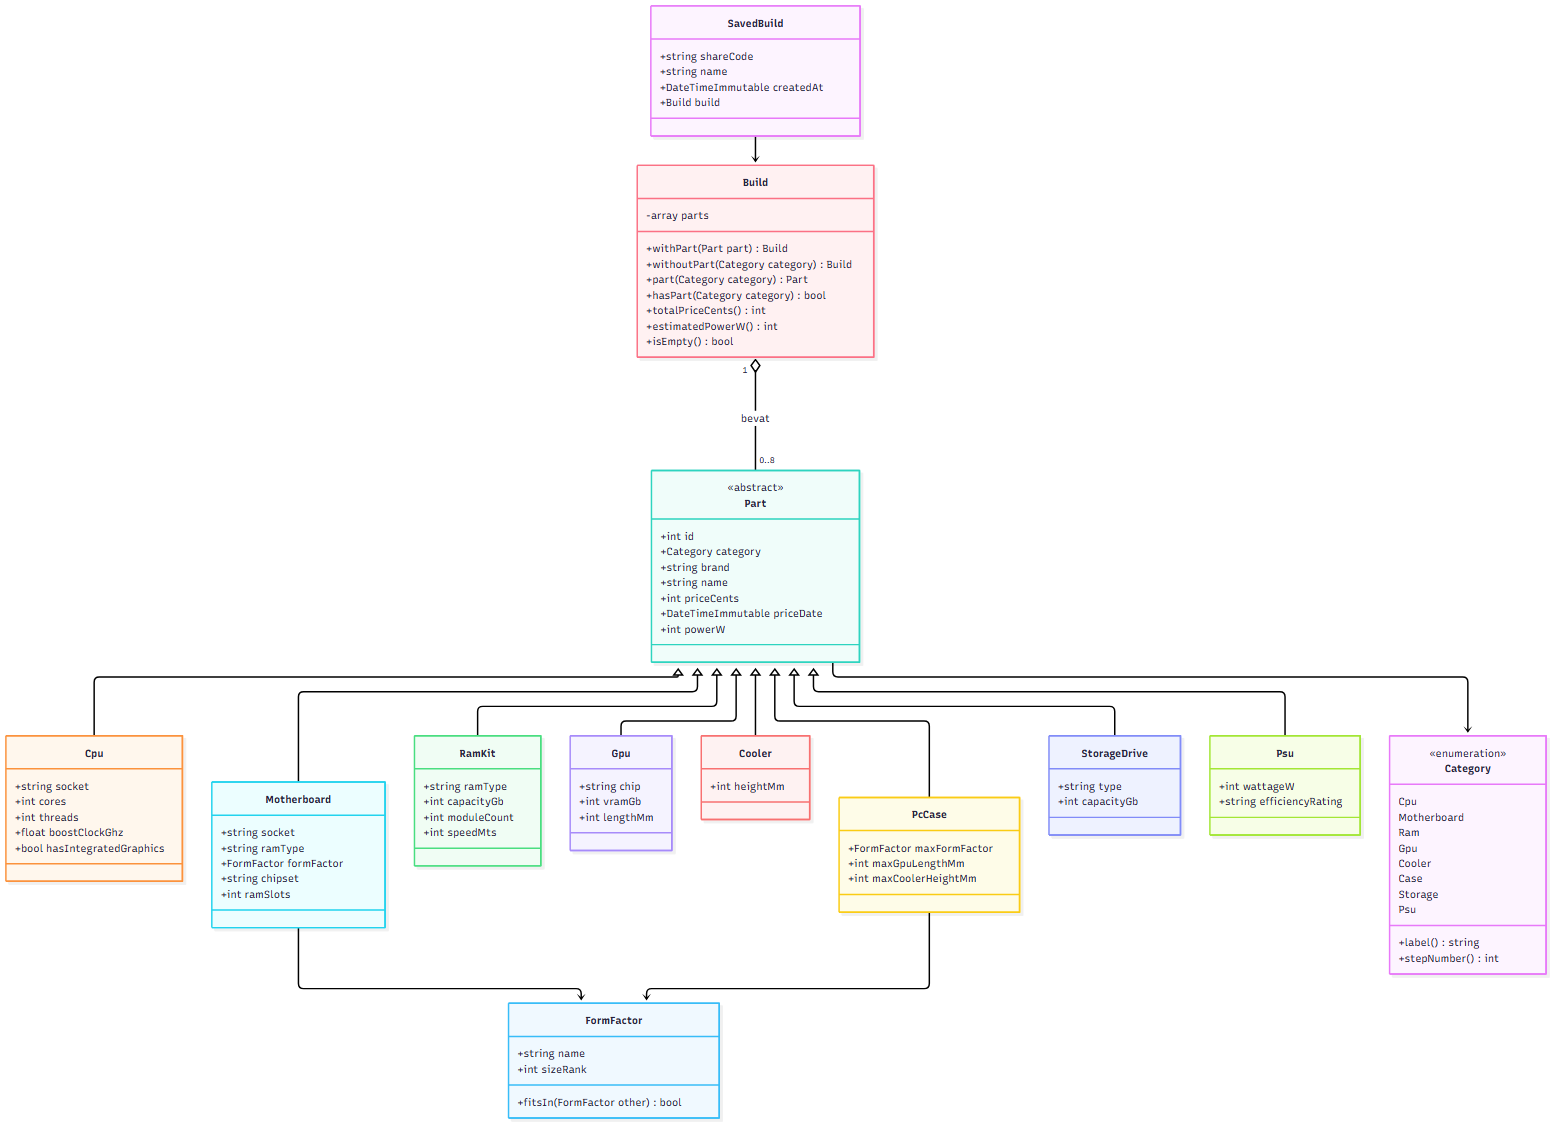
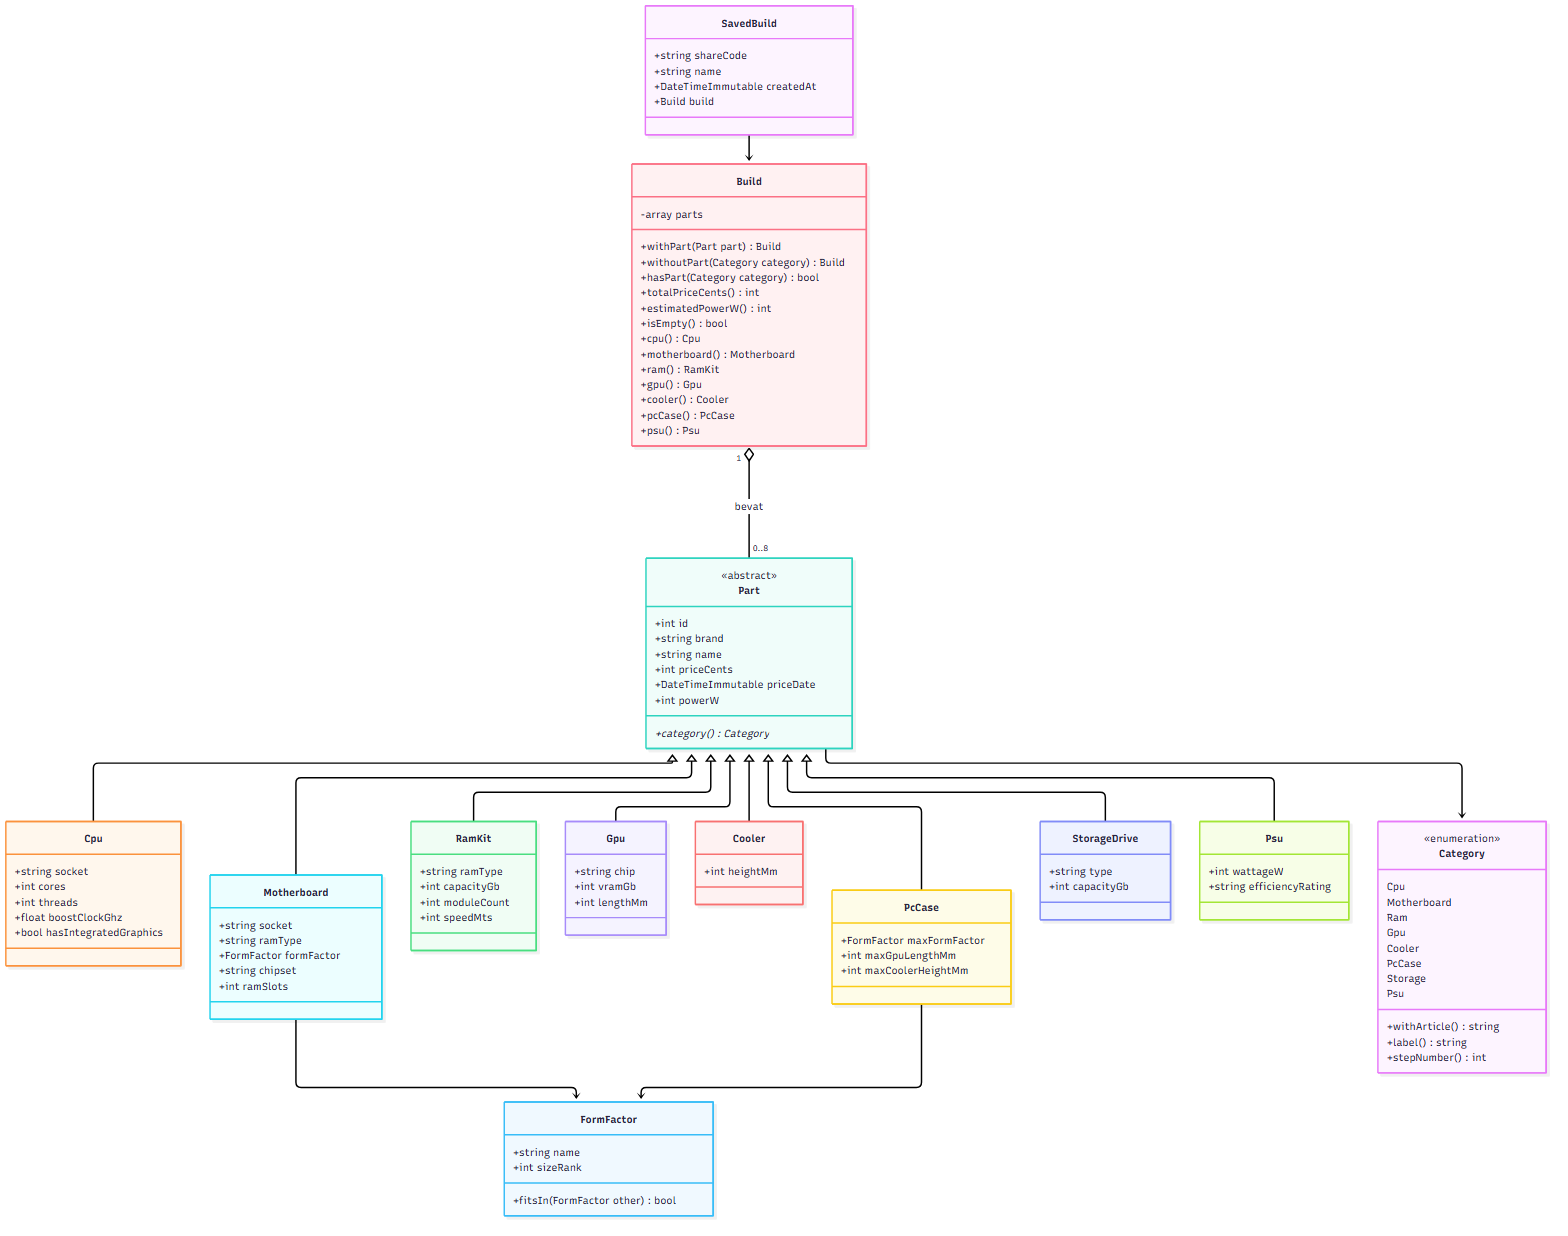
docs: klassendiagrammen bijgewerkt naar de gebouwde code

Changed region(s): [[0.0, 0.0, 0.9688, 0.9859], [0.5312, 0.3081, 0.5625, 0.3389], [0.5312, 0.0308, 0.5625, 0.0616]]

diff --git a/docs/ontwerp.md b/docs/ontwerp.md
@@ -213,21 +213,22 @@ classDiagram
         Ram
         Gpu
         Cooler
-        Case
+        PcCase
         Storage
         Psu
+        +withArticle() string
         +label() string
         +stepNumber() int
     }
     class Part {
         <<abstract>>
         +int id
-        +Category category
         +string brand
         +string name
         +int priceCents
         +DateTimeImmutable priceDate
         +int powerW
+        +category() Category*
     }
     class Cpu {
         +string socket
@@ -279,11 +280,17 @@ classDiagram
         -array parts
         +withPart(Part part) Build
         +withoutPart(Category category) Build
-        +part(Category category) Part
         +hasPart(Category category) bool
         +totalPriceCents() int
         +estimatedPowerW() int
         +isEmpty() bool
+        +cpu() Cpu
+        +motherboard() Motherboard
+        +ram() RamKit
+        +gpu() Gpu
+        +cooler() Cooler
+        +pcCase() PcCase
+        +psu() Psu
     }
     class SavedBuild {
         +string shareCode
@@ -307,7 +314,11 @@ classDiagram
     SavedBuild --> Build
 ```
 
-De klasse voor een kast heet `PcCase`, omdat `case` in PHP een gereserveerd woord is. `withPart` en `withoutPart` geven een nieuwe `Build` terug in plaats van de bestaande te veranderen. Zo kan de controle een onderdeel "proberen" zonder de echte build van de gebruiker aan te passen.
+De klasse voor een kast heet `PcCase`, omdat `case` in PHP een gereserveerd woord is. Elke subklasse geeft met `category()` zelf aan bij welke categorie hij hoort.
+
+`Build` heeft voor elk onderdeel een eigen methode, zoals `cpu()` en `psu()`. Een eerdere versie van dit ontwerp had één methode `part(Category)`, maar die geeft alleen een `Part` terug. Met `cpu()` weet PHP dat het om een `Cpu` gaat, dus de regels kunnen `$build->cpu()->socket` gebruiken en de editor kent de velden. Deze methodes mag je alleen aanroepen als het onderdeel gekozen is, dat controleert de `CompatibilityChecker` eerst met `hasPart()`.
+
+`withPart` en `withoutPart` geven een nieuwe `Build` terug in plaats van de bestaande te veranderen. Zo kan de controle een onderdeel "proberen" zonder de echte build van de gebruiker aan te passen. Deze twee methodes en `isEmpty()` komen er pas bij met F-04, F-12 en F-14.
 
 ### 4.2 Compatibiliteit
 
@@ -323,12 +334,13 @@ classDiagram
     class RamTypeRule
     class FormFactorRule
     class PsuWattageRule {
-        -float marginPercent
+        -int marginPercent
     }
     class GpuLengthRule
     class CoolerHeightRule
     class CompatibilityChecker {
         -array rules
+        +withAllRules(int psuMarginPercent) CompatibilityChecker$
         +check(Build build) CheckReport
         +conflictsFor(Build build, Part candidate) array
     }
@@ -375,7 +387,9 @@ classDiagram
 
 Elke regel is een eigen klasse met dezelfde interface. De `CompatibilityChecker` kijkt eerst met `requiredCategories()` of de onderdelen voor een regel gekozen zijn. Is dat niet zo, dan maakt de checker zelf een resultaat "nog niet gecontroleerd". Pas als alles er is, roept hij `evaluate()` aan. Zo staat de controle op ontbrekende onderdelen maar op één plek. Een nieuwe regel toevoegen (zoals F-21) betekent: één nieuwe klasse schrijven en die aan de lijst van de checker toevoegen.
 
-`conflictsFor()` wordt gebruikt om onderdelen grijs te maken (F-12): de checker voegt het kandidaat-onderdeel toe aan een kopie van de build en geeft de fouten terug van regels waar dat onderdeel bij hoort.
+`withAllRules()` maakt een checker met alle zes de regels. De marge van de voeding komt uit `config/app.php`.
+
+`conflictsFor()` wordt gebruikt om onderdelen grijs te maken (F-12): de checker voegt het kandidaat-onderdeel toe aan een kopie van de build en geeft de fouten terug van regels waar dat onderdeel bij hoort. Deze methode komt er met F-12, net als `label()` op `CheckStatus` en `OverallStatus` voor de teksten op de pagina's.
 
 ### 4.3 Aanbeveling, opslag en controllers
 
